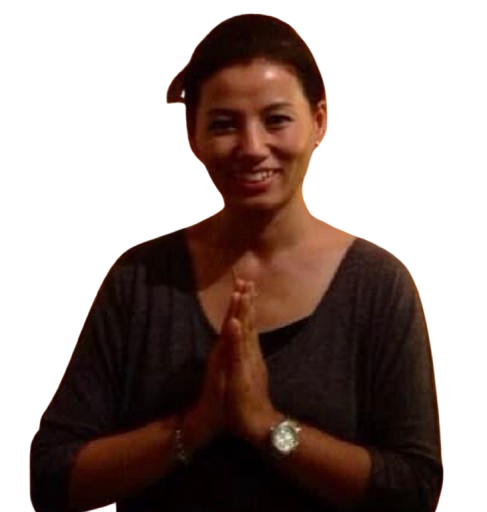
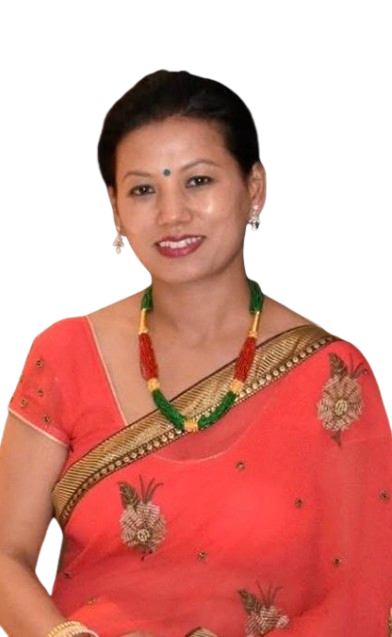
Update Nepali English Toggle button (#145)

diff --git a/src/components/About/About.jsx b/src/components/About/About.jsx
@@ -6,7 +6,11 @@ import { usePapaParse } from 'react-papaparse';
 import { saveAs } from 'file-saver';
 import jsPDF from 'jspdf';
 import autoTable from 'jspdf-autotable';
-import Image from 'next/image'
+import Image from 'next/image';
+import nepaliContent from "./content/about-np.json";
+import englishContent from "./content/about-en.json";
+
+
 
 /**
  * Back-to-top link component
@@ -23,13 +27,12 @@ const MemberData = ({ name, expiration, type }) => {
             <td className="px-6 py-4 text-left font-medium text-gray-900">{name}</td>
             <td className="px-6 py-4 text-gray-700">{expiration || "Never"}</td>
             <td className="px-6 py-4">
-                <span className={`px-2 py-1 rounded-full text-xs font-bold ${
-                    type === "Junior" 
-                        ? "bg-orange-100 text-orange-700" 
+                <span className={`px-2 py-1 rounded-full text-xs font-bold ${type === "Junior"
+                        ? "bg-orange-100 text-orange-700"
                         : type === "Life Time" || type === "Lifetime"
-                        ? "bg-purple-100 text-purple-700" 
-                        : "bg-green-100 text-green-700"
-                }`}>
+                            ? "bg-purple-100 text-purple-700"
+                            : "bg-green-100 text-green-700"
+                    }`}>
                     {type}
                 </span>
             </td>
@@ -54,7 +57,7 @@ function MembershipTable() {
     const [juniorCount, setJuniorCount] = useState(0);
     const { readString } = usePapaParse();
 
-   useEffect(() => {
+    useEffect(() => {
         fetch('./AllMembers.csv')
             .then(response => response.text())
             .then(csvText => {
@@ -75,7 +78,7 @@ function MembershipTable() {
                             if (!rawName || rawName === 'Member Name') return;
 
                             let type = 'General';
-                            
+
                             // UPDATED: Logic focused on Junior identification
                             const isJunior = typeIndicator === 'junior' || rawName.toLowerCase().includes('junior');
 
@@ -150,6 +153,7 @@ function MembershipTable() {
         doc.save('members_list.pdf');
     };
 
+
     return (
         <div className="bg-white rounded-xl shadow-lg p-6 overflow-x-auto">
             {/* Membership Summary */}
@@ -158,7 +162,7 @@ function MembershipTable() {
                 <div className="grid grid-cols-1 sm:grid-cols-3 gap-2 mt-2">
                     <div className="font-medium">Lifetime Members: <strong>{lifetimeCount}</strong></div>
                     <div className="font-medium">General Members: <strong>{generalCount}</strong></div>
-                     <div className="font-medium">Junior: <strong>{juniorCount}</strong></div>
+                    <div className="font-medium">Junior: <strong>{juniorCount}</strong></div>
                     <div className="font-medium">Total: <strong>{lifetimeCount + generalCount + juniorCount}</strong></div>
 
                 </div>
@@ -218,17 +222,17 @@ function MembershipTable() {
                                 <td className="px-4 py-2">{m.expiration}</td>
                                 <td className="px-4 py-2">{m.type}</td>
                                 <td className="px-4 py-2">
-    <span className={`px-2 py-1 rounded-full text-sm ${
-        // 1. If it's Lifetime OR Junior, make it Green/Blue Active
-        (m.type === 'Lifetime' || m.type === 'Junior' || m.type === 'General')
-            ? 'bg-green-100 text-green-800' 
-            : m.status === 'Active'
-                ? 'bg-green-100 text-green-800'
-                : 'bg-red-100 text-red-800'
-    }`}>
-        {(m.type === 'Lifetime' || m.type === 'Junior' || m.type === 'General') ? 'Active' : m.status}
-    </span>
-</td>
+                                    <span className={`px-2 py-1 rounded-full text-sm ${
+                                        // 1. If it's Lifetime OR Junior, make it Green/Blue Active
+                                        (m.type === 'Lifetime' || m.type === 'Junior' || m.type === 'General')
+                                            ? 'bg-green-100 text-green-800'
+                                            : m.status === 'Active'
+                                                ? 'bg-green-100 text-green-800'
+                                                : 'bg-red-100 text-red-800'
+                                        }`}>
+                                        {(m.type === 'Lifetime' || m.type === 'Junior' || m.type === 'General') ? 'Active' : m.status}
+                                    </span>
+                                </td>
                             </tr>
                         ))}
                     </tbody>
@@ -242,140 +246,158 @@ function MembershipTable() {
  * Main About page
  */
 function About() {
-    const [expanded, setExpanded] = useState(false);
+  const [expanded, setExpanded] = useState(false);
+  const [lang, setLang] = useState("np"); 
+  const content = lang === "np" ? nepaliContent : englishContent;
 
-    return (
-        <div className="bg-gray-50 text-gray-800">
-            {/* Sticky nav */}
-            <nav className="sticky top-0 z-50 bg-white shadow-md py-4">
-                <div className="max-w-6xl mx-auto flex justify-center gap-6 text-blue-900 font-semibold text-lg">
-                    <a href="#about" className="hover:text-blue-600">About LINS-NY</a>
-                    <a href="#executives" className="hover:text-blue-600">Executive Members</a>
-                    <a href="#members" className="hover:text-blue-600">Members Directory</a>
-                </div>
-            </nav>
 
-            {/* About section */}
-            <section id="about" className="max-w-5xl mx-auto px-6 py-12">
-                <h1 className="text-3xl font-bold text-center text-blue-900 mb-6">
-                    About Long Island Nepalese Society - NY
-                </h1>
+  return (
+    <div className="bg-gray-50 text-gray-800">
 
-                {/* Collapsible Article */}
-                <article className="relative font-serif leading-relaxed text-justify">
-                    <div
-                        className={`transition-all duration-300 ease-in-out overflow-hidden ${expanded ? 'max-h-full' : 'max-h-[12rem]'
-                            }`}
-                    >
-                        <p className="p-2 md:px-5">नेपाल क्षेत्रफलमा सानोहोला तर यहाँको सामाजिक, सांस्कृतिक, भौगोलीक बिबिधता चाही फराकिलो छ।  नेपाल सगरमाथा र भगवान बुद्धको जन्मस्थलले मात्र अन्तराष्ट्रिय जगतमा चिनाएको छैन की नेपालीहरु श्रमशील, मिलनसार, बहुसांस्कृतिक र ईमान्दार नागरिक भनेर नेपाललीले अन्तर्राष्ट्रिय समुदायमा आफ्नो छुट्टै पहिचान बनाएको छ।
-                        </p>
-                        <p className="p-2 md:px-5">नेपाल सरकारले अमेरिकासंग  कूटनीतिक सम्बन्ध १९४७ मा नै स्थापना गरे पनि नेपालीहरुको आगमन १९९० को दशकको अन्त्यतिरबाट नेपालीहरुको आगमन ब्यापक रुपमा भएको देखिन्छ। हालका दिनहरुमा हरेक वर्ष, ठूलो संख्यामा नेपालीहरू उच्च शिक्षा, डाईभरसिटी कार्यक्रमबाट स्थाई बसोबास गर्न, व्यवसाय र अन्य अवसरहरूको
-                            खोजीमा अमेरिकालाई सपनाको सबैभन्दा प्राथमिकता गन्तब्य देशको रुपमा नेपालीहरुको आगमन भएको पाईन्छ।
-                        </p>
-                        <p className="p-2 md:px-5">अमेरिकाको पनि न्युयोर्क सहर घेरै नेपालीहरुको बसोबासकोलागी उत्तम ठाउको रुपमा रोजाई रहेको छ।
-                        </p>
-                        <p className="p-2 md:px-5">न्युयोर्क सहरको नजिकै रहेको सबअर्ब क्षेत्र ‘लंगआईल्यान्ड ‘ बसोबासको लागि अत्यन्तै सहज र सुन्दर ठाउँ रहेको छ।न्युयोर्क सहरको नजिक तर शान्त र रमणिय, समुन्द्रको नजिक तथा पार्क, उत्कृष्ट बिध्यालय र युनिभर्सिटीहरु र अन्य आकर्षणहरु रहेको यस लंग आईल्यान्डमा नासा र सफ्लक दूईबटा काउन्टीहरु दिन प्रतिदिन नेपालीहरुको पनि बसोबास बढ्दै गईरहेको छ।
-                            २०१० तिरसम्म आईपुग्दा जम्मा करिब २०० जना नेपालीहरुको हिक्सभिल तथा लेभिटाउन सिटीहरुमा केन्द्रीत रहेर बसोबास देखिन्छ। बिदेशि भूमिमा आएर पनि यहाँ नेपालीहरुको भेटघाट होस, सद्भाब र भाईचाराहोस्। संगै चाडबाड मनाउन सकियोस र दुख पर्दा एकअर्कामा सहयोग होस् भन्ने हेतुले २०१० मा स्थानिय केहि ब्यक्तित्वहरुको पहलमा लंगआईल्यान्ड नेपाली समाजको संस्था स्थापना भएको हो। संस्थालाई आधिकारीक रुपमा २०१२ मा दर्तागरि संचालन गरिएको नेपालीहरुको संस्था हालसम्म स्थानिय नेपाली समाज, न्युयोर्क र अमेरिका भरि नै एउटा परिचित ठुलो सामाजिक सँस्थाको रुपमा चिर परिचीत छ।
-                            हाल करिब ५००० जनाजती नेपाली बसोबास रहेको  छ र ७१० जनाजती रजिष्टर्ड सदस्यगरु रहेको छ।
-                        </p>
-                        <p className="p-2 md:px-5">अधिकांश नेपालीहरूले साझा आकांक्षाहरू कसरी पूरा गर्न सकिन्छ र कसरी विचारहरू आदानप्रदान गर्न सकिन्छ र प्रगतिका अवसरहरू बढाउन सकिन्छ; र अझ महत्त्वपूर्ण कुरा, कसरी एउटै पहिचान निर्माण गर्न, एक भएर अगाडि बढ्न, र एकजुट भई हामीले हाम्रो परिवार र देशबाट प्राप्त गरेको आकांक्षालाई पूरा गर्न सकिन्छ भन्ने कुरा आवश्यकतालाई महसुस भएको छ र सो को लागि यो समाजले सेतूको काम गर्दै आईरहेको छ र अब पनि यो संस्था मार्फत हामी हाम्रो विचारहरू, समस्याहरू आदानप्रदान गर्न सकौं र अरू नेपालीहरूलाई उनीहरूको समस्याबाट मद्दत गर्न सकौं। यस्तो एकता र सहयोगको पवित्र भावना
-                        </p>
-                    </div>
-
-                    {/* Continue Reading Button */}
-                    <div className="text-center mt-4">
-                        <button
-                            onClick={() => setExpanded(!expanded)}
-                            className="inline-block px-4 py-2 bg-blue-100 text-blue-800 font-medium rounded-full shadow-sm hover:bg-blue-200 transition"
-                        >
-                            {expanded ? 'Show Less' : '…Continue Reading'}
-                        </button>
-                    </div>
-                </article>
-
-                {/* Back to Top Link */}
-                <div className="text-right mt-6">
-                    <a
-                        href="#about"
-                        className="text-bold text-2xl text-blue-800 hover:text-blue-600 transition inline-flex items-center gap-1"
-                    >
-                        <span className="text-lg">↑</span> Back to Top
-                    </a>
-                </div>
-            </section>
-
-            {/* Executives */}
-            <section id="executives" className="bg-white py-12">                
-                <ElectedMembers />
-                {/* Back to Top Link */}
-                <div className="text-center mt-6">
-                    <a
-                        href="#about"
-                        className="text-bold text-2xl text-blue-800 hover:text-blue-600 transition inline-flex items-center gap-1"
-                    >
-                        <span className="text-lg">↑</span> Back to Top
-                    </a>
-                </div>
-            </section>
-
-            {/* Members directory */}
-            <section id="members" className="max-w-6xl mx-auto px-4 py-12">
-                <h2 className="text-2xl font-bold text-center text-blue-900 mb-6">
-                    Registered Members Directory
-                </h2>
-                <MembershipTable />
-                {/* Back to Top Link */}
-                <div className="text-center mt-6">
-                    <a
-                        href="#about"
-                        className="text-bold text-2xl text-blue-800 hover:text-blue-600 transition inline-flex items-center gap-1"
-                    >
-                        <span className="text-lg">↑</span> Back to Top
-                    </a>
-                </div>
-            </section>
-
-            
-                    {/*Developers */}
-                    
-                         <div> 
-                    <br /><div className="flex-grow h-px bg-gray-400 py-0.5"></div>
-                    <div className="flex justify-center font-extrabold font-serif text-5xl py-0.5">Developers</div>
-
-                    <div className="flex items-center py-4">
-                        <div className="flex-grow h-px bg-gray-400 py-0.5"></div>
-
-                    </div>
-
-                    <div className="grid grid-cols-3 px-8 place-items-center">
-                        <Image
-                            src="/BijendraBasnet.jpg"
-                            width={130}
-                            height={130}
-                            alt="BijendraBasnet"
-                        />
-                        <Image
-                            src="/DeepakAdhikari.jpg"
-                            width={87}
-                            height={95}
-                            alt="DeepakAdhikari"
-                        />
-                        <Image
-                            src="/Bikash Mainali.jpg"
-                            width={97}
-                            height={95}
-                            alt="Bikash Mainali"
-                        />
-                        <p className=" text-center sm:font-extrabold leading-nonetext-blue-900 xl:text-2xl text-blue-950">
-                            Bijendra <br />Basnet </p>
-                        <p className=" text-center sm:font-bold leading-nonetext-blue-900 xl:text-2xl text-blue-950">
-                            Deepak <br />Adhikari </p>
-                        <p className=" text-center sm:font-bold leading-nonetext-blue-900 xl:text-2xl text-blue-950">
-                            Bikash <br />Mainali</p></div>
-                </div> 
-                      
+      {/* Sticky nav */}
+      <nav className="sticky top-0 z-50 bg-white shadow-md py-4">
+        <div className="max-w-6xl mx-auto flex justify-center gap-6 text-blue-900 font-semibold text-lg">
+          <a href="#about" className="hover:text-blue-600">About LINS-NY</a>
+          <a href="#executives" className="hover:text-blue-600">Executive Members</a>
+          <a href="#members" className="hover:text-blue-600">Members Directory</a>
         </div>
-    );
+      </nav>
+
+      {/* About section */}
+<section id="about" className="w-full bg-gray-50">
+  <div className="max-w-5xl mx-auto px-6 py-12">
+
+    {/* Language Toggle */}
+    <div className="flex justify-center mb-6">
+      <div className="inline-flex rounded-full border border-gray-200 bg-white shadow-sm overflow-hidden">
+        <button
+          onClick={() => setLang("np")}
+          className={`px-5 py-2 text-sm font-semibold ${
+            lang === "np"
+              ? "bg-blue-600 text-white"
+              : "bg-white text-blue-600"
+          }`}
+        >
+          नेपाली
+        </button>
+
+        <button
+          onClick={() => setLang("en")}
+          className={`px-5 py-2 text-sm font-semibold ${
+            lang === "en"
+              ? "bg-blue-600 text-white"
+              : "bg-white text-blue-600"
+          }`}
+        >
+          English
+        </button>
+      </div>
+    </div>
+
+    {/* Title */}
+    <h1 className="text-3xl md:text-4xl font-bold text-blue-900 text-center mb-8">
+      {content.title}
+    </h1>
+
+    {/* Article */}
+    <article className="max-w-4xl mx-auto">
+      <div
+        className={`font-serif text-gray-800 text-base md:text-lg leading-relaxed ${
+          !expanded ? "max-h-[15rem]" : "max-h-none"
+        } overflow-hidden transition-all duration-300`}
+      >
+        {content.paragraphs.map((paragraph, index) => (
+          <p key={index} className="mb-5 text-justify">
+            {paragraph}
+          </p>
+        ))}
+      </div>
+
+      {/* Continue Reading */}
+      <div className="flex justify-center mt-6">
+        <button
+          onClick={() => setExpanded(!expanded)}
+          className="px-6 py-3 rounded-full bg-blue-100 text-blue-800
+                     hover:bg-blue-200 transition-all shadow-sm"
+        >
+          {expanded ? "Show Less" : "...Continue Reading"}
+        </button>
+      </div>
+
+      {/* Back to Top */}
+      <div className="flex justify-end mt-10">
+        <a
+          href="#top"
+          className="text-blue-700 text-lg hover:text-blue-900"
+        >
+          ↑ Back to Top
+        </a>
+      </div>
+    </article>
+
+  </div>
+</section>
+
+
+      {/* Executives */}
+      <section id="executives" className="bg-white py-12">
+        <ElectedMembers />
+        <div className="text-center mt-6">
+          <a
+            href="#about"
+            className="text-bold text-2xl text-blue-800 hover:text-blue-600 transition inline-flex items-center gap-1"
+          >
+            <span className="text-lg">↑</span> Back to Top
+          </a>
+        </div>
+      </section>
+
+      {/* Members directory */}
+      <section id="members" className="max-w-6xl mx-auto px-4 py-12">
+        <h2 className="text-2xl font-bold text-center text-blue-900 mb-6">
+          Registered Members Directory
+        </h2>
+        <MembershipTable />
+        <div className="text-center mt-6">
+          <a
+            href="#about"
+            className="text-bold text-2xl text-blue-800 hover:text-blue-600 transition inline-flex items-center gap-1"
+          >
+            <span className="text-lg">↑</span> Back to Top
+          </a>
+        </div>
+      </section>
+
+      {/* Developers */}
+      <div>
+        <br />
+        <div className="flex-grow h-px bg-gray-400 py-0.5"></div>
+        <div className="flex justify-center font-extrabold font-serif text-5xl py-0.5">Developers</div>
+
+        <div className="flex items-center py-4">
+          <div className="flex-grow h-px bg-gray-400 py-0.5"></div>
+        </div>
+
+        <div className="grid grid-cols-3 px-8 place-items-center">
+          <Image src="/BijendraBasnet.jpg" width={130} height={130} alt="BijendraBasnet" />
+          <Image src="/DeepakAdhikari.jpg" width={87} height={95} alt="DeepakAdhikari" />
+          <Image src="/Bikash Mainali.jpg" width={97} height={95} alt="Bikash Mainali" />
+
+          <p className="text-center sm:font-extrabold xl:text-2xl text-blue-950">
+            Bijendra <br /> Basnet
+          </p>
+          <p className="text-center sm:font-bold xl:text-2xl text-blue-950">
+            Deepak <br /> Adhikari
+          </p>
+          <p className="text-center sm:font-bold xl:text-2xl text-blue-950">
+            Bikash <br /> Mainali
+          </p>
+        </div>
+      </div>
+
+    </div>
+  );
 }
+
 
 export default About;
